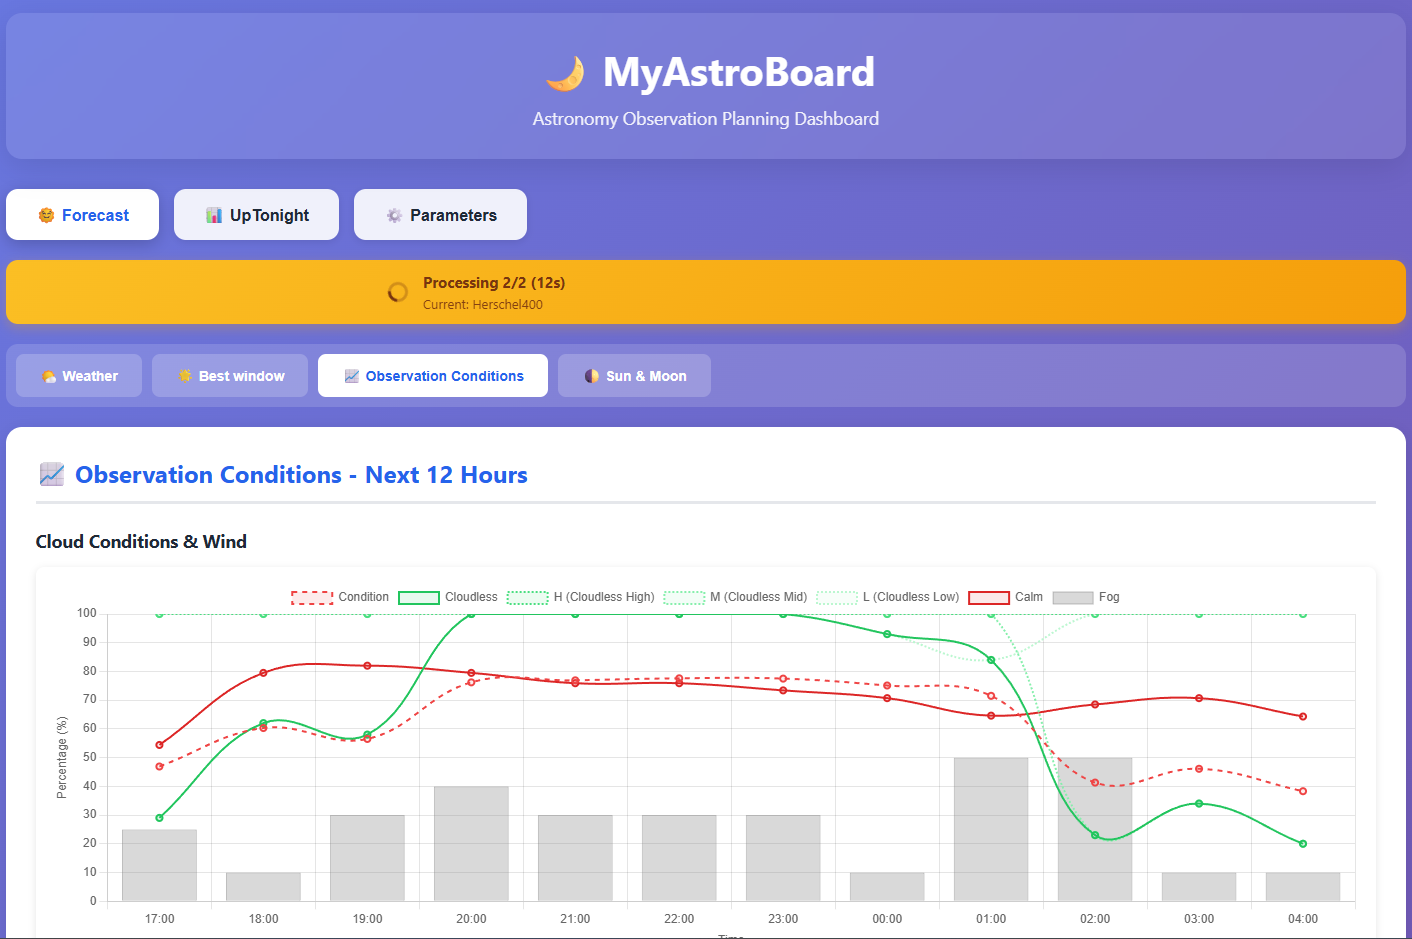
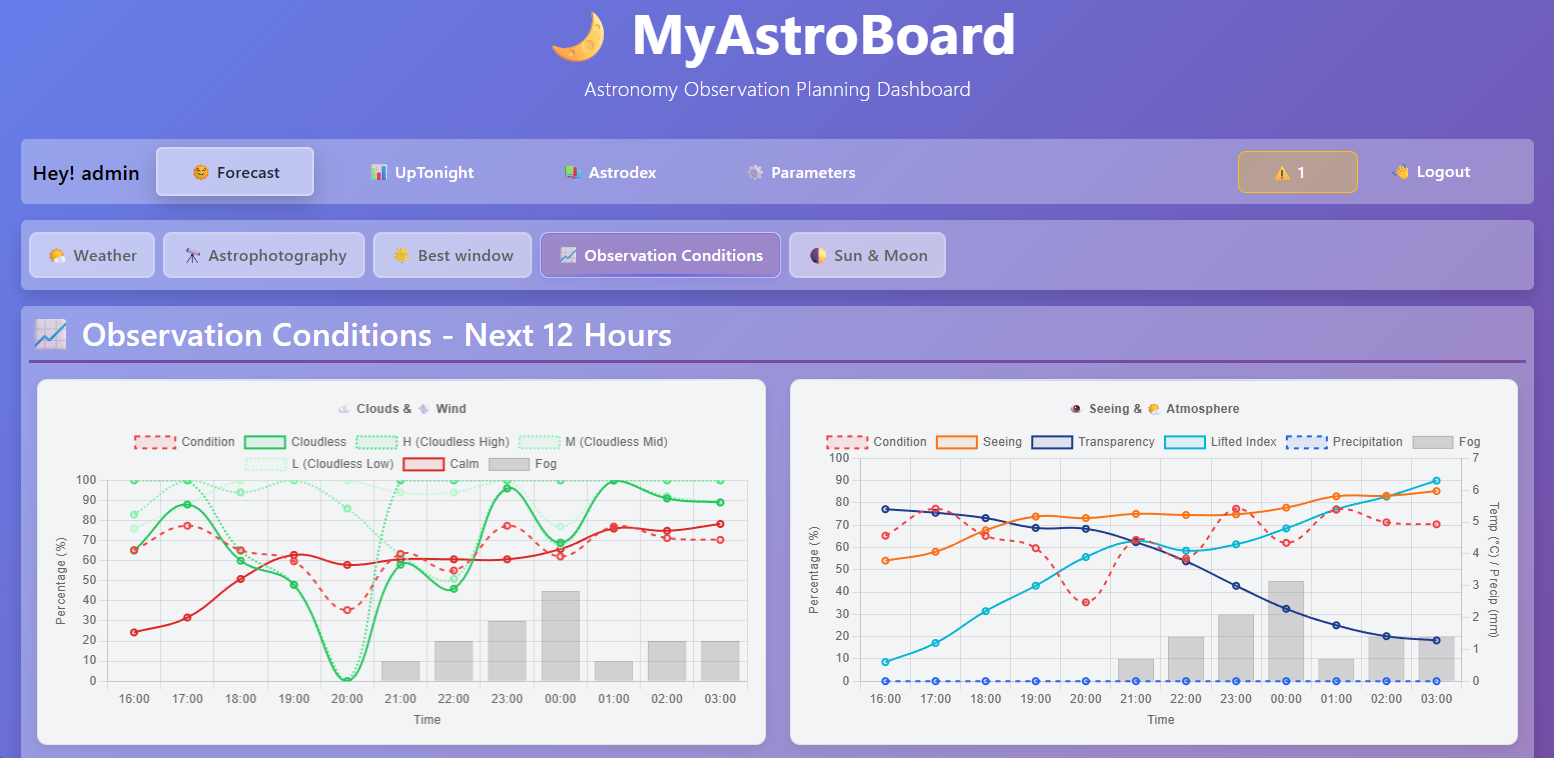
Update all pictures in documentation, and add more. Visual tour file now available

diff --git a/docs/VISUAL_TOUR.md b/docs/VISUAL_TOUR.md
@@ -1,0 +1,147 @@
+# 📸 MyAstroBoard - Visual Tour
+
+A visual walkthrough of MyAstroBoard's interface and capabilities.
+
+## Table of Contents
+1. [Dashboard](#dashboard)
+2. [Weather & Conditions](#weather--conditions)
+3. [Celestial Objects](#celestial-objects)
+4. [Astrodex Collections](#astrodex-collections)
+5. [Advanced Features](#advanced-features)
+
+---
+
+## Dashboard
+
+### Home Screen
+Your command center for all astronomy activities. The home dashboard provides quick access to current weather, observation conditions, and upcoming observation opportunities.
+
+![MyAstroBoard Home](img/home.png)
+
+---
+
+## Weather & Conditions
+
+### Weather Forecast
+Detailed weather information including temperature, precipitation, cloud cover, and atmospheric conditions optimized for night-time astronomy.
+
+![Weather Dashboard](img/weather.png)
+
+### Observation Conditions Monitor
+Real-time graphs of atmospheric conditions including transparency, seeing, and other factors critical for successful observations.
+
+![Observation Conditions](img/obs_conditions.png)
+
+### Alerts & Advanced Weather Analysis
+Comprehensive weather alerts and advanced forecast charts to help you plan your observation sessions with confidence.
+
+![Advanced Weather Charts](img/alerts_and_advanced_weather_charts.png)
+
+### Astrophotography advanced information
+Quick information, and detailled information about weather from astrophoto side.
+
+![Astrophoto Info](img/astrophoto_infos.png)
+
+---
+
+## Celestial Objects
+
+### Sun & Moon Information
+Detailed calculations of solar and lunar positions, phases, rise/set times, and altimetry data perfect for planning your observations.
+
+![Sun and Moon](img/sun_moon.png)
+
+### Deep Sky Objects Catalogue from UpTonight
+Browse thousands of deep-sky objects from multiple catalogues with detailed information and observation quality scoring.
+
+![Deep Sky Objects](img/deep_sky_objects.png)
+
+### Celestial Bodies View from UpTonight
+Explore celestial bodies with detailed information, ratings, and observation recommendations.
+
+![Bodies](img/bodies.png)
+
+### Altitude Charts from UpTonight
+Charts showing object altitude versus time, helping you identify optimal observation windows.
+
+![Altitude Chart](img/popup_alttime.png)
+
+---
+
+## Astrodex Collections
+
+### Your Astrophotography Collection
+Astrodex is your personal tracker for every celestial object you've captured. Browse your collection with detailed metadata and imaging information.
+
+![Astrodex Collection](img/astrodex.png)
+
+### Object Editor Interface
+Manage detailed information about each capture including:
+- Target object name and coordinates
+- Capture date and equipment
+- Processing notes and observations
+- Atmospheric conditions at time of capture
+
+### Astrophotography Metadata
+Track comprehensive imaging details:
+- Exposure settings (shutter speed, ISO, aperture)
+- Equipment used (telescope, camera, filters)
+- Post-processing notes
+- Observing conditions (transparency, seeing, temperature)
+- Personal observations and improvements for next time
+
+![Astrodex Editor](img/astrodex_editor.png)
+
+---
+
+## Advanced Features
+
+### Smart Scheduling
+- Automated UpTonight execution with configurable intervals
+- Per-catalogue processing for multiple target lists
+- Weather updates before each processing run
+- Version notifications and update management
+
+### Configuration System
+- Easy setup of location and coordinates
+- Catalogue selection and filtering
+- Custom target list management
+
+### Data Analytics
+- Historical trend analysis
+- Observation success metrics
+- Weather pattern recognition
+- Clear night predictions
+
+### Mobile Responsive
+All features work seamlessly on:
+- Desktop computers
+- Tablets
+- Mobile devices
+- Any modern web browser
+
+---
+
+## 🎯 Start Your Journey
+
+New to MyAstroBoard? Follow these steps:
+
+1. **Install**: See [Installation Guide](1.INSTALLATION.md)
+2. **Configure**: Set up your location and preferences
+3. **Explore**: Browse celestial objects using the catalogues
+4. **Plan**: Check weather and conditions for observation sessions
+5. **Track**: Build your Astrodex collection of captures
+
+---
+
+## 💡 Pro Tips
+
+- Use the weather and conditions dashboards together to find optimal observation windows
+- Check altitude charts to ensure targets will be well-positioned in your sky
+- Log your captures in Astrodex to build a comprehensive imaging record
+- Set up automated catalogue updates to always have fresh target data
+- Configure alerts for good observation nights so you never miss clear skies
+
+---
+
+*Explore the cosmos with MyAstroBoard - Your personal astronomy command center!*

diff --git a/README.md b/README.md
@@ -9,7 +9,10 @@ Fully integrated web dashboard interface easy to set-up with Docker.
 
 Automated UpTonight execution, based on the [mawinkler/uptonight](https://github.com/mawinkler/uptonight) project, with nice result display.
 
-![weater](docs/img/obs_conditions.png "Weather")
+> [!TIP]
+> Want quickly look interface? Check [the Visual Tour!](docs/VISUAL_TOUR.md)
+
+![weater](docs/img/home.png "Weather")
 
 ## 🌟 Features
 
@@ -29,12 +32,16 @@ Automated UpTonight execution, based on the [mawinkler/uptonight](https://github
 - **Image Popups**: View plots and charts in modal dialogs
 - **Log Viewer**: Real-time system log viewing and filtering
 - **Responsive Design**: Works on desktop, tablet, and mobile devices
-- **Astrodex Integration**: Add objects directly from catalogue tables, see which objects you've already captured
 
 ### Automation & Docker
 - **Automated Execution**: Scheduled uptonight runs (configurable interval), with weather environment updated
 - **Per-Catalogue Processing**: Separate execution for each catalogue
 - **Version Control**: Be notified if a new version is available
+
+### Astrodex: Your Astrophotography Collection
+Astrodex is your personal tracker for every celestial object you've captured. Browse your collection with detailed metadata and imaging information.
+
+![Astrodex Collection](docs/img/astrodex.png)
 
 ## 🚀 Quick Start
 
@@ -47,19 +54,7 @@ Maybe now you want install it, and run it ! So you can consult the quick documen
 
 ## Views
 
-### Weather
-
-![Weather](docs/img/weather.png "Weather")
-
-### Sun & Moon
-
-![Sun and Moon](docs/img/sun_moon.png "Sun and Moon")
-
-### UpTonight
-
-![Bodies](docs/img/bodies.png "Bodies")
-
-![Popup Alttime](docs/img/popup_alttime.png "Popup Alttime")
+Take a look to [Visual Tour](docs/VISUAL_TOUR.md) !
 
 ## 📦 Dependencies
 
